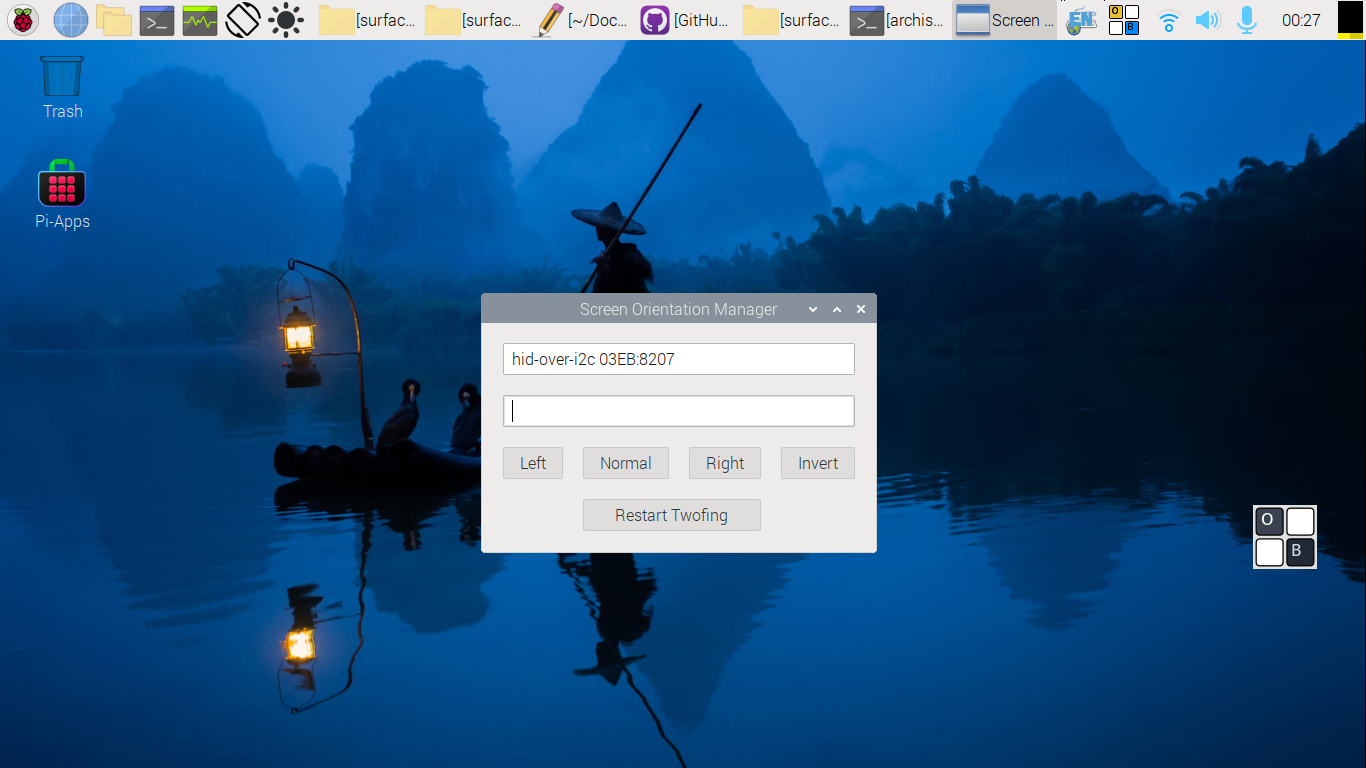
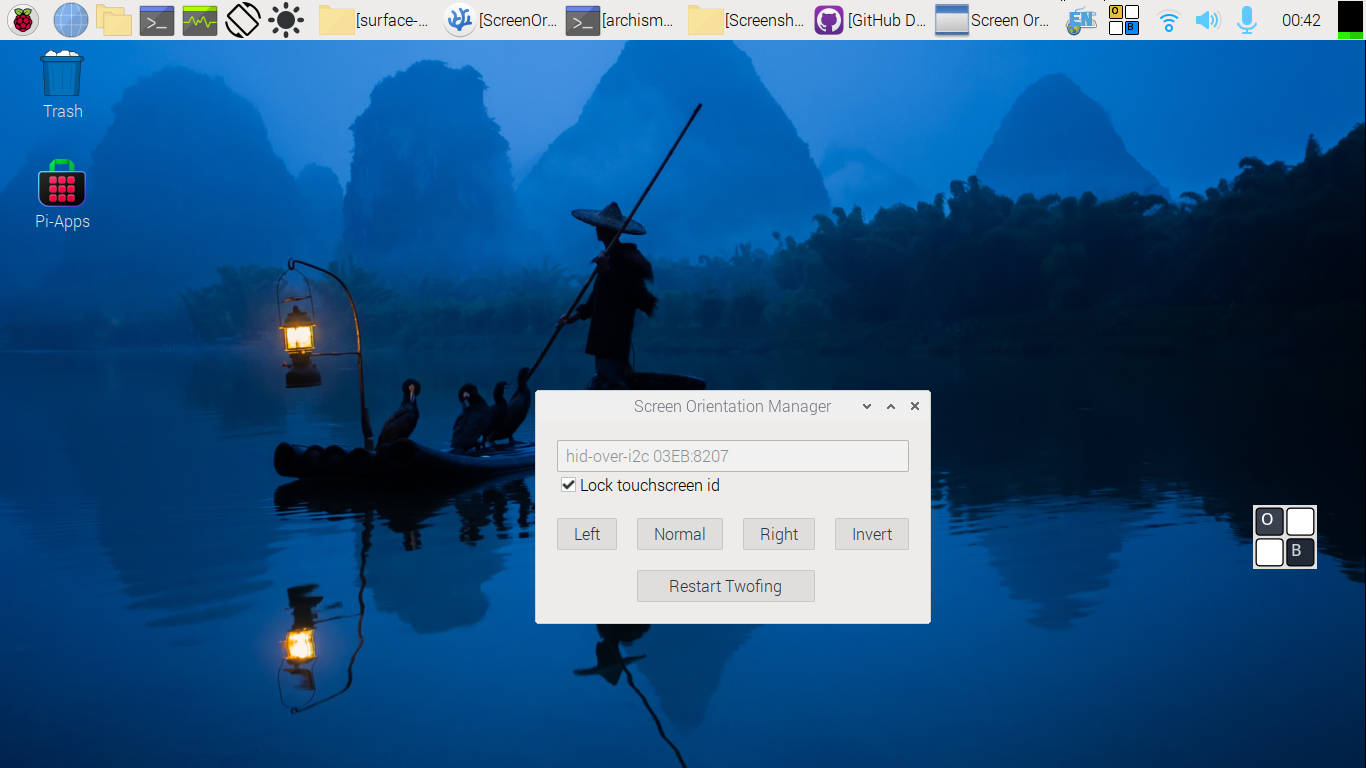
fix python warning and simplify interface

diff --git a/ScreenOrientationManager.py b/ScreenOrientationManager.py
@@ -27,7 +27,7 @@ class ScreenOrientationManager(Gtk.Window):
         # [1] add screen entry
         self.screen_entry = Gtk.Entry()
         self.screen_entry.set_placeholder_text("e.g. ELAN Touchscreen")
-        if len(devices[1]) is not 0:
+        if len(devices[1]) != 0:
             self.screen_entry.set_text(devices[1])
         self.grid.attach(self.screen_entry, 1, 1, 50, 1)
 
@@ -35,24 +35,24 @@ class ScreenOrientationManager(Gtk.Window):
         self.touchpad_entry = Gtk.Entry()
         self.touchpad_entry.props.margin_top = margin
         self.touchpad_entry.set_placeholder_text("e.g. ELAN Touchpad")
-        if len(devices[0]) is not 0:
+        if len(devices[0]) != 0:
             self.touchpad_entry.set_text(devices[0])
-        self.grid.attach(self.touchpad_entry, 1, 2, 50, 1)
+        #self.grid.attach(self.touchpad_entry, 1, 2, 50, 1)
 
         # [3] add check button
-        self.display_check = Gtk.CheckButton(label="Not a touchscreen?")
+        self.display_check = Gtk.CheckButton(label="Lock touchscreen id")
         #self.display_check.props.margin_top = margin
-        #if len(devices[3]) is not 0:
-            #self.display_check.set_active(bool(devices[3]))
+        if len(devices[3]) != 0:
+            self.display_check.set_active(bool(devices[3]))
         self.display_check.connect("clicked", self.on_check_changed)
-        #self.grid.attach(self.display_check, 1, 3, 1, 1)
+        self.grid.attach(self.display_check, 1, 3, 1, 1)
 
 
         # [4] add display entry
         self.display_entry = Gtk.Entry()
         self.display_entry.props.margin_top = margin
         self.display_entry.set_placeholder_text("e.g. Video Bus")
-        if len(devices[2]) is not 0:
+        if len(devices[2]) != 0:
             self.display_entry.set_text(devices[2])
         #self.grid.attach(self.display_entry, 1, 4, 50, 1)
         self.display_entry.set_sensitive(False)
